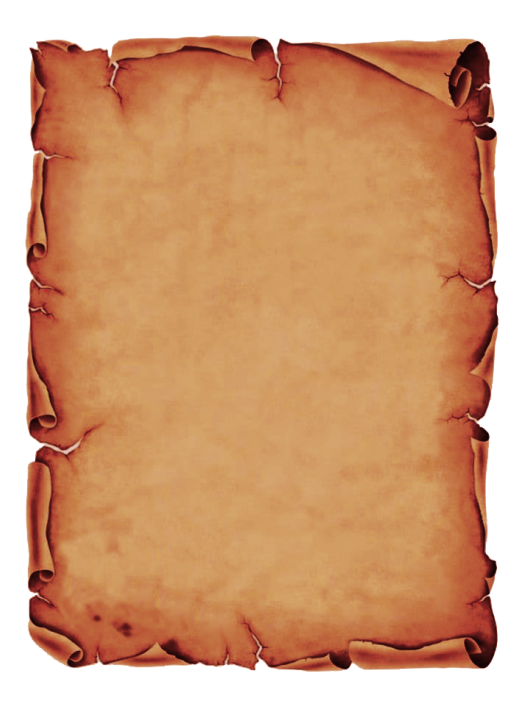
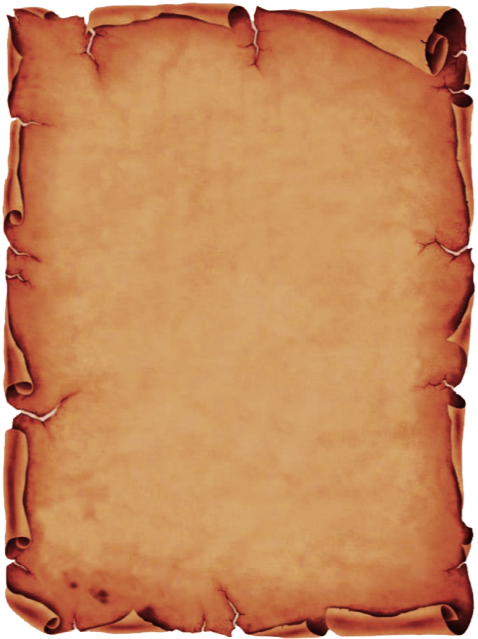
Finalizado primeira pagina

diff --git a/style.css b/style.css
@@ -17,6 +17,7 @@ body {
     flex-direction: column;
     justify-content: space-between;
     height: 100vh;
+    width: 100%;
     align-items: center;
 }
 
@@ -24,6 +25,13 @@ body {
 
 main {
     margin-top: 20vh;
+    display: flex;
+    align-items: center;
+    justify-content: space-between;
+    height: 50vh;
+}
+
+section {
     display: flex;
     flex-direction: column;
     align-items: center;
@@ -33,35 +41,71 @@ main {
 
 .titulo {
     background-image: url(images/wood.png);
+    background-size: contain;
+    background-repeat: no-repeat;
+    background-position: center center;
+    position: absolute;
+    padding: 40px;
+    top: 14vh;
 }
 
 .titulo > h1 {
     font-size: 3rem;
     font-family: chalk, Arial, Helvetica, sans-serif;
     color: white;
-    
 }
 
 .opicoes {
     display: flex;
     flex-direction: column;
     align-items: center;
-    justify-content: space-between;
-    height: 30vh;
+    justify-content: center;
+    height: 60vh;
+    width: 50vw;
     
     background-image: url(images/paper.png);
-    background-size: cover;
+    background-size: contain;
+    background-repeat: no-repeat;
+    background-position: center center;
 }
 
-.opicoes > a {
-    background-color: rgb(216, 48, 90);
-    padding: 20px;
+.button {
+    display: flex;
     width: 100%;
+    align-items: center;
+    justify-content: center;
+}
+
+.button > a {
     text-align: center;
-    font-size: 1.6rem;
-    border-radius: 10px;
-    border: solid 2PX rgb(92, 2, 20);
+    font-size: 1.8rem;
     color: black;
+    background-image: url(images/wood.png);
+    background-size: contain;
+    background-repeat: no-repeat;
+    background-position: center center;
+    padding: 10px 42px;
+    font-family: chalk, Arial, Helvetica, sans-serif;
+    color: white;
+}
+
+#play {
+    margin: 30px 0;
+    transform: rotate(5deg);
+    transition: 0.3s;
+}
+
+#play:hover {
+    transform: scale(1.2);
+}
+
+#regras {
+    transform: rotate(-5deg);
+    transition: 0.3s;
+}
+
+#regras:hover {
+    transform: scale(1.2);
 }
 
 footer {
@@ -70,9 +114,13 @@ footer {
     width: 100%;
     display: flex;
     justify-content: center;
-    color: white;
+    color: rgb(209, 190, 190);
 }
 
 footer > p > a {
     color: crimson;
+}
+
+footer > p > a:hover {
+    color: white;
 }

diff --git a/index.html b/index.html
@@ -8,13 +8,15 @@
 </head>
 <body>
     <main>
-        <dvi class="titulo">
-            <h1>Marretão</h1>
-        </dvi>
-        <div class="opicoes">
-            <a href="play.html">Play</a>
-            <a href="regras.html">Regras</a>
-        </div>
+        <section>
+            <dvi class="titulo">
+                <h1>Marretão</h1>
+            </dvi>
+            <div class="opicoes">
+                <div class="button" id="play"><a href="play.html">Play</a></div>
+                <div class="button" id="regras"><a href="regras.html">Regras</a></div>
+            </div>
+        </section>
     </main>
     <footer>
         <p>Um site por <a href="https://github.com/CaioFialho" target="_blank">Caio Fialho</a></p>
